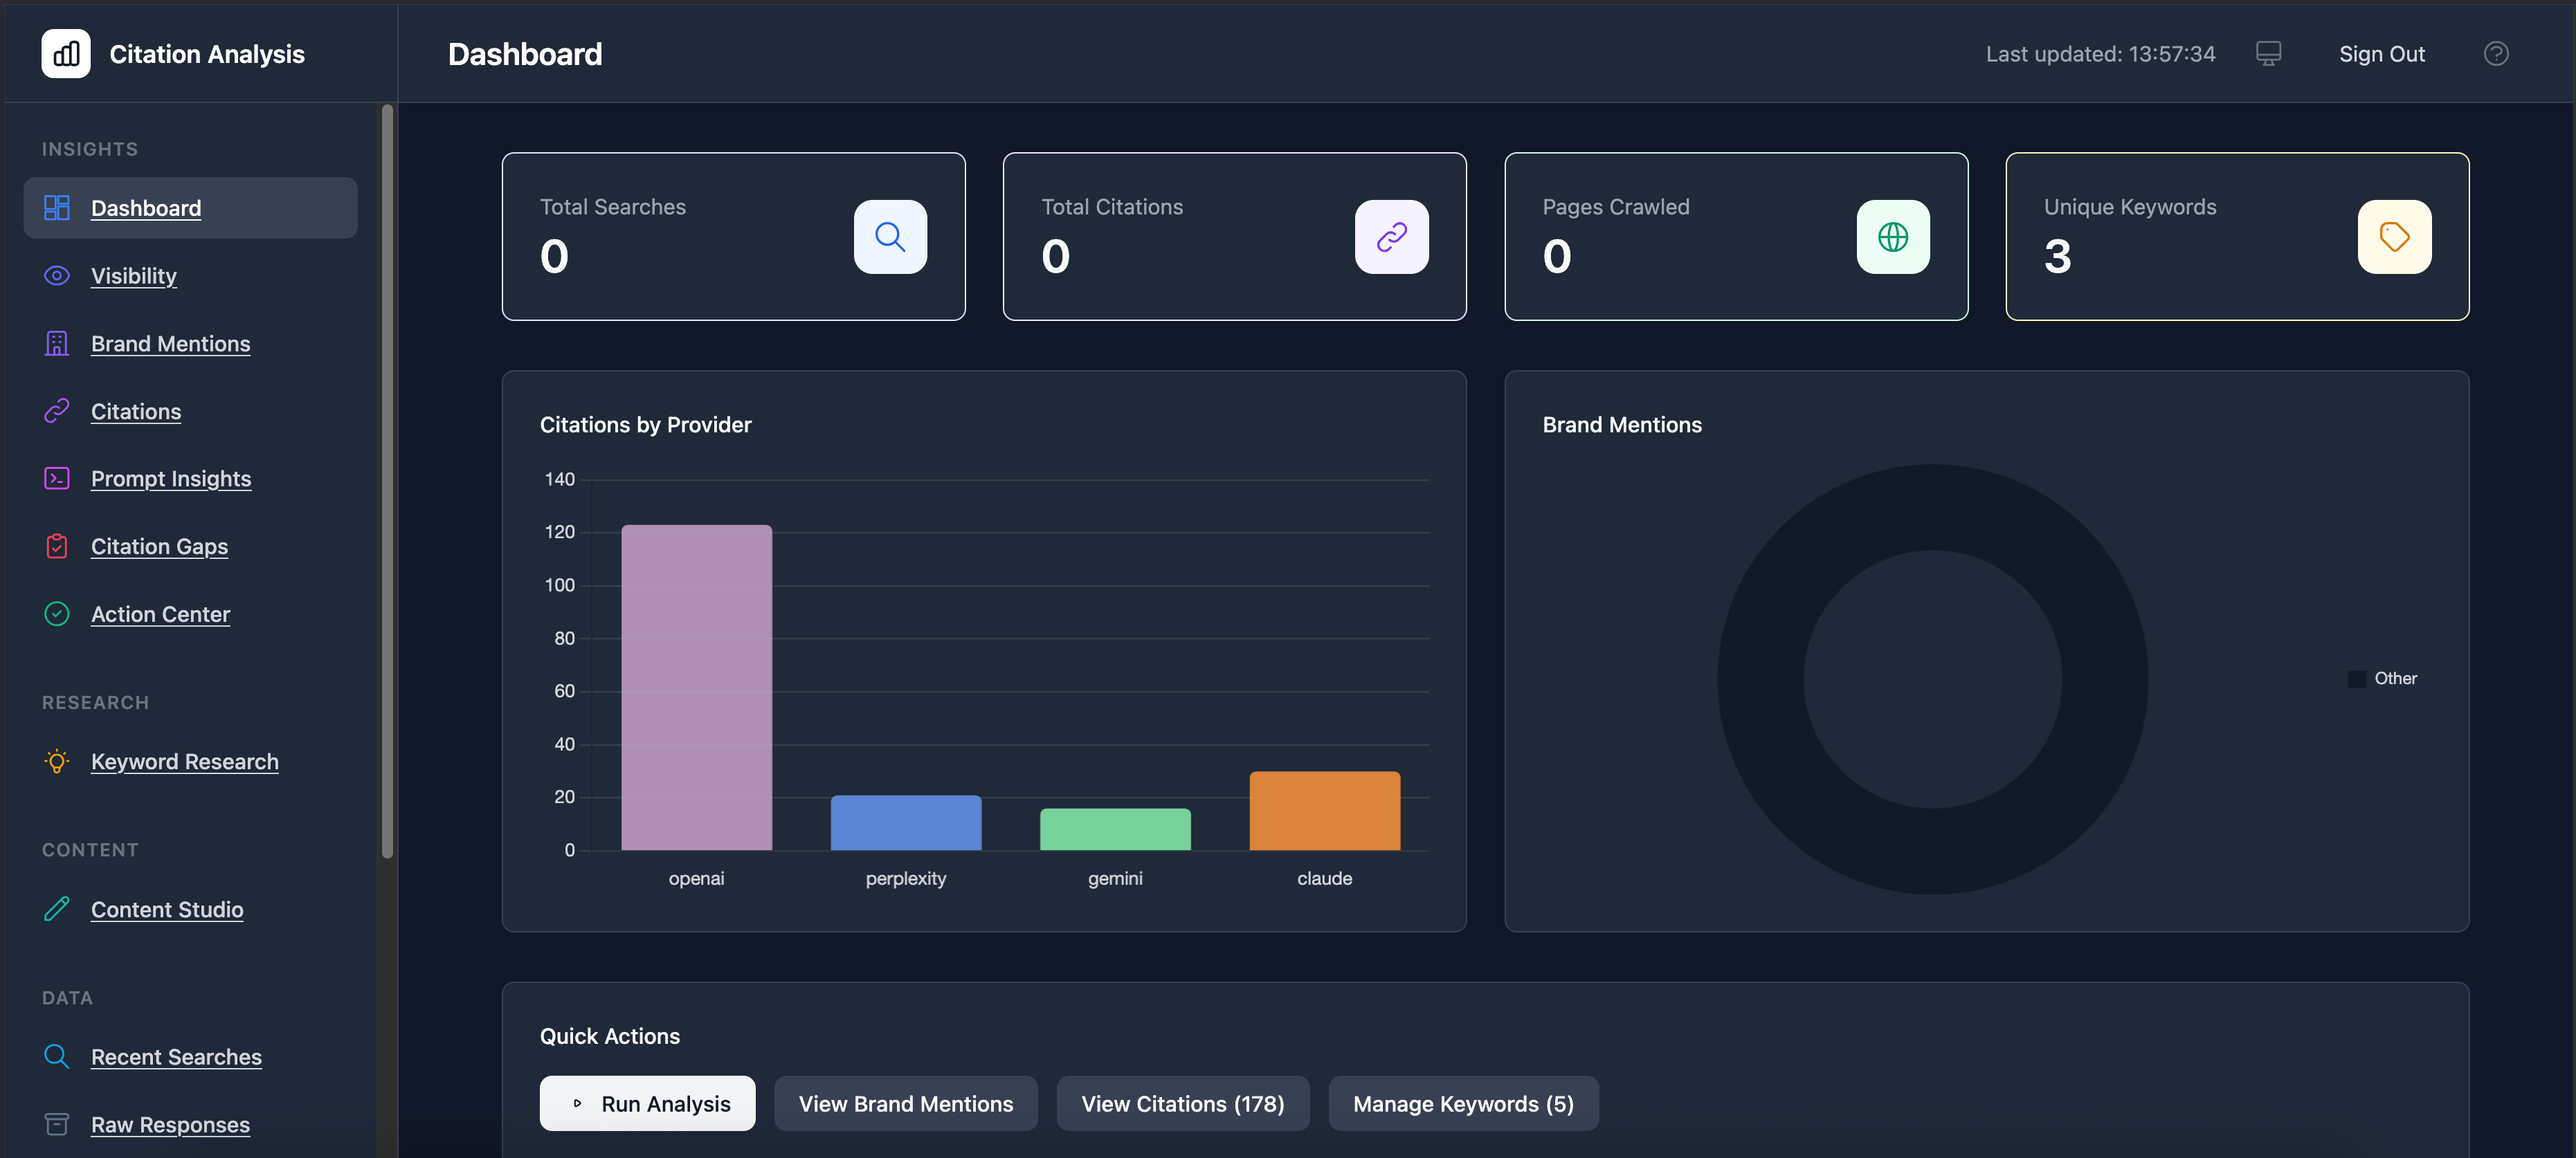
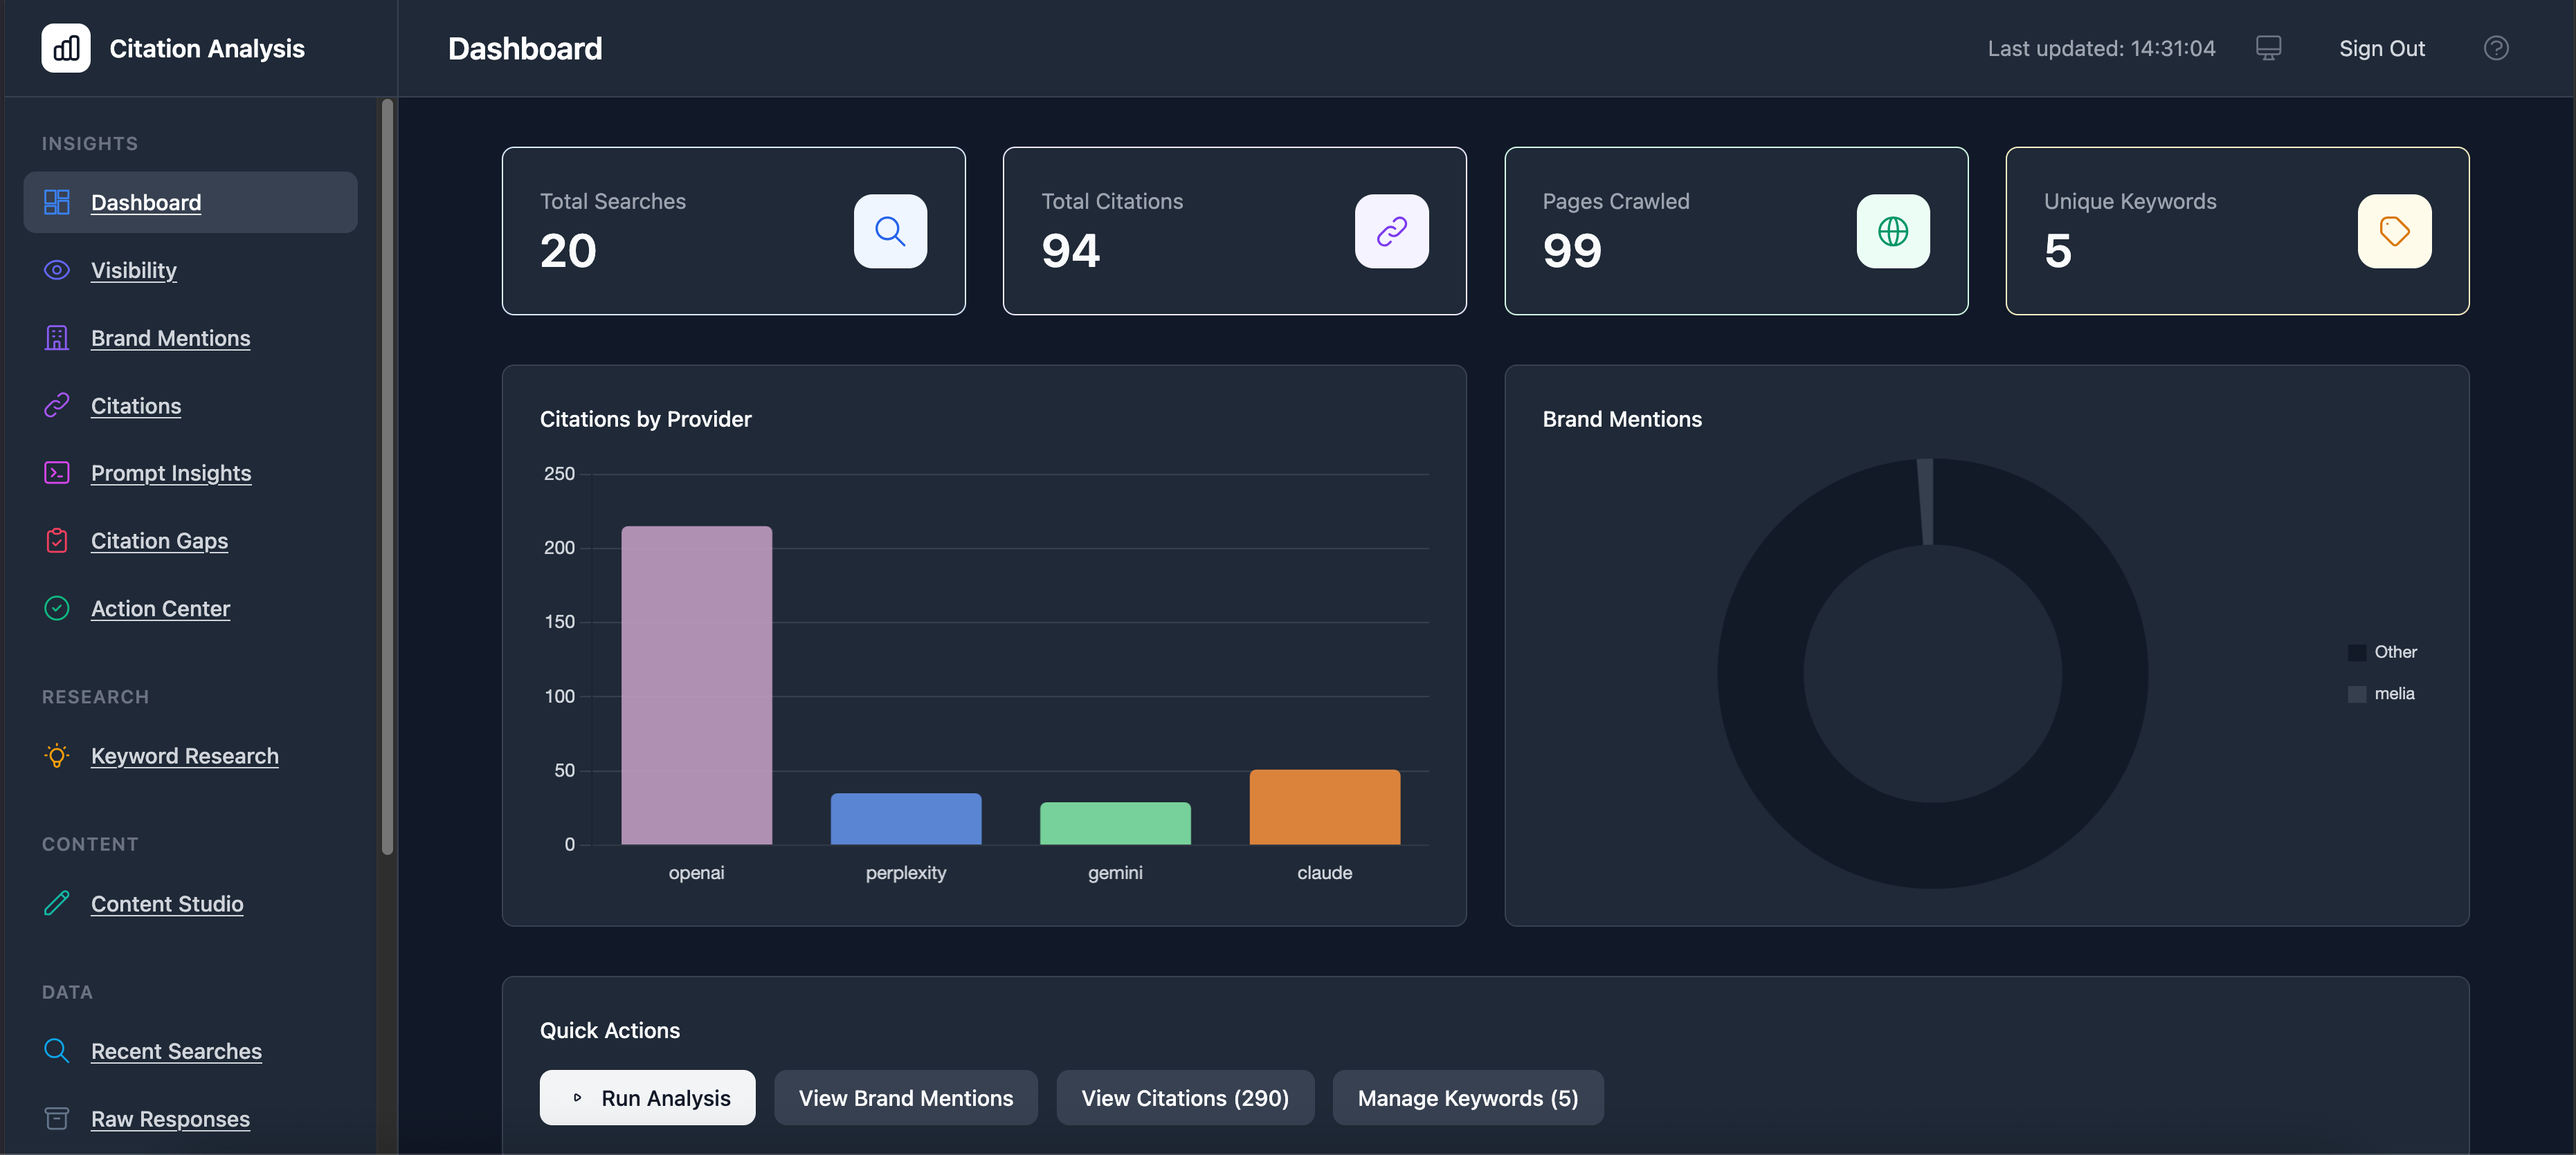
docs: add dashboard screenshots, update architecture diagram, fix stats count

diff --git a/lambda/api/get-stats.py b/lambda/api/get-stats.py
@@ -42,7 +42,7 @@ _count_cache_ttl = 300  # 5 minutes
 
 
 def _get_table_item_count(table, cache_key: str) -> int:
-    """Get approximate item count using describe_table instead of scan."""
+    """Get item count using scan with COUNT select for accuracy."""
     now = time.time()
     cached = _count_cache.get(cache_key)
     
@@ -50,9 +50,13 @@ def _get_table_item_count(table, cache_key: str) -> int:
         return cached['count']
     
     try:
-        client = boto3.client('dynamodb')
-        response = client.describe_table(TableName=table.table_name)
-        count = response['Table'].get('ItemCount', 0)
+        response = table.scan(Select='COUNT')
+        count = response.get('Count', 0)
+        
+        # Handle pagination for large tables
+        while 'LastEvaluatedKey' in response:
+            response = table.scan(Select='COUNT', ExclusiveStartKey=response['LastEvaluatedKey'])
+            count += response.get('Count', 0)
         
         _count_cache[cache_key] = {'count': count, 'timestamp': now}
         return count

diff --git a/README.md b/README.md
@@ -153,6 +153,7 @@ aws cloudformation describe-stacks \
 ### Dashboard Features
 
 ![Dashboard overview](docs/dashboard.png)
+*Dashboard overview with real-time statistics, provider comparison, and brand mentions*
 
 - **Real-time Statistics**: Auto-refreshes every 30 seconds
 - **Provider Comparison**: Bar chart showing citation counts by AI provider
@@ -162,10 +163,13 @@ aws cloudformation describe-stacks \
 - **Filtering**: Filter by keyword or provider
 
 ![Brand mentions with sentiment analysis](docs/brandmentions.png)
+*Brand mention tracking with sentiment analysis and ranking context*
 
 ![Citation gap analysis](docs/citationgapanalysis.png)
+*Citation gap analysis showing sources that cite competitors but not you*
 
 ![Content Studio with AI-generated recommendations](docs/contentstudio.png)
+*Content Studio generating optimised content based on citation gaps*
 
 The dashboard is a static React application hosted on S3 and served via CloudFront, with data fetched from API Gateway endpoints backed by Lambda functions.
 
